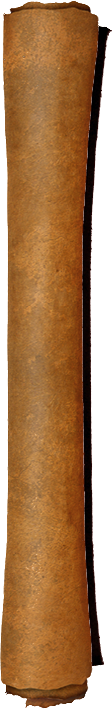
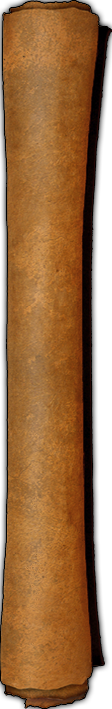
Big scroll done

diff --git a/js/Objects.js b/js/Objects.js
@@ -354,7 +354,7 @@ ClickPoint = InteractableObject.extend({
             x: circle.x,
             y: circle.y,
             r: circle.r
-        }
+        };
         
     },
 
@@ -623,7 +623,7 @@ Item = Class.extend({
         this.dom.draggable({
             start: function () {
                 self.hideAttributes();
-                $(this).css({ zIndex: '2' })
+                $(this).css({ zIndex: '2' });
             },
 
             stop: function (ev, ui) {
@@ -649,7 +649,7 @@ Item = Class.extend({
             this.time = 120;
             this.checkpoints = 1;
             this.lives = 0;
-            this.description = 'This item increases your time for reaction dramatically!!'
+            this.description = 'This item increases your time for reaction dramatically!!';
         };
 
         if (this.type === 'ring') {
@@ -662,17 +662,17 @@ Item = Class.extend({
         };
 
         if (this.type === 'sword') {
-            this.name = "Useless Sword"
+            this.name = "Useless Sword";
             this.moves = 0;
             this.speed = 0;
             this.time = 0;
             this.checkpoints = 0;
             this.lives = 0;
-            this.description = "You'll get nothing from this item. Exept the false sense of security.."
+            this.description = "You'll get nothing from this item. Exept the false sense of security..";
         };
 
         if (this.type === "boots") {
-            this.name = "Boots of Speed"
+            this.name = "Boots of Speed";
             this.moves = 35;
             this.speed = 1;
             this.time = 180;
@@ -682,17 +682,17 @@ Item = Class.extend({
         }
 
         if (this.type === "armor") {
-            this.name = "Shiny Armor"
+            this.name = "Shiny Armor";
             this.moves = 0;
             this.speed = 0;
             this.time = 0;
             this.checkpoints = 0;
             this.lives = 50;
-            this.description = "This armor is almost impenetrable."
+            this.description = "This armor is almost impenetrable.";
         }
 
         if (this.type === "potion") {
-            this.name = "Potion of Agility"
+            this.name = "Potion of Agility";
             this.moves = 120;
             this.speed = 0;
             this.time = 300;
@@ -956,7 +956,11 @@ function Menu() {
 	
     function showEpilogue(){
         $('.menuCell.begin').on('click', function(){
-            $('#epilogue').fadeIn(1000);
+            $('#epilogue').fadeIn(1000, function(){
+            	$('#bigScrollRight').animate({
+            		'left': '30px'
+            	}, 2000, 'easeInOutBack');
+            });
             console.log('hello');
         });
     };
@@ -1191,7 +1195,7 @@ var ServerObject = Class.extend({
             };
 
         this.currentScore = score;
-        this.callMethod(actionName, params)
+        this.callMethod(actionName, params);
 
 
     },
@@ -1207,7 +1211,7 @@ var ServerObject = Class.extend({
                 callback: "serverObject.onGetHighScore",
             };
         console.log('beforeGetHighScore');
-        this.callMethod(actionName,params)
+        this.callMethod(actionName, params);
 
         
     },
@@ -1221,7 +1225,7 @@ var ServerObject = Class.extend({
                 callback: "serverObject.onSaveHighScore",
             };
 
-        this.callMethod(actionName, params)
+        this.callMethod(actionName, params);
 
 
     },
@@ -1250,14 +1254,14 @@ var ServerObject = Class.extend({
             var html = '', j =  (i * 5);
             end = j + 5;
             console.log((data.data.length));
-            console.log(i)
+            console.log(i);
             console.log(j);
-            console.log(end)
+            console.log(end);
             for (j; j < end; j++) {
                 if (data.data.length < j || data.data[j] == undefined)
                     break;
                
-                console.log("hel")
+                console.log("hel");
                 html += '<div class="highscore row">';
                 html += '<div class="highscore cell">' + data.data[j].player + '</div>';
                 html += '<div class="highscore cell">' + data.data[j].score + '</div>';
@@ -1284,6 +1288,6 @@ var ServerObject = Class.extend({
         
     }
 
-})
+});
 
 window.serverObject = new ServerObject();

diff --git a/Css/StyleSheet.css b/Css/StyleSheet.css
@@ -276,13 +276,87 @@ body {
 }
 
 /* ======= MAIN MENU STYLE ========= */
+/* #scroll{
+	float: right;
+	position: relative;
+	width: 150px;
+	height: 224px;
+	margin-right: 5px;
+	margin-top: 35px;
+    display: none;
+}
+#scroll .top{
+	background-image: url(../source/scrollTop.png);
+	width: 150px;
+	height: 29px;
+	position: absolute;
+	top: -5px;
+	z-index: 10;
+}
+#scroll .bottom{
+	background-image: url(../source/scrollBottom.png);
+	width: 110px;
+	height: 164px;
+	position: absolute;
+	top: -120px;
+	z-index: 1;
+	padding-left: 25px;
+	padding-right: 10px;
+	padding-top: 20px;
+	font-family: Morpheus;
+	font-size: 16px;
+	font-weight: bold;
+}
+#bottomScrollWrapper{
+	overflow: hidden;
+	position: relative;
+	width: inherit;
+	height: inherit;
+} */
+		#bigScroll{
+			position: relative;
+			width:1024px;
+			height: 768px;
+			top: 20px;
+			left: 10px;
+		}
+		#bigScrollLeft{
+			background-image: url(../source/menu/bigScrollLeft.png);
+			width:112px;
+			height:709px;
+			z-index: 10;
+			float:left;
+			position: absolute;
+			top: 30px;
+			left: 20px;
+		}
+		#bigScrollRight{
+			background-image: url(../source/menu/bigScrollRight.png);
+			width: 927px;
+			height: 735px;
+			position: absolute;
+			float:left;
+			left: -650px;
+		}
+		
+		#bigScrollRightWrapper{
+			overflow: hidden;
+			position: relative;
+			width: inherit;
+			height: inherit;
+			float:left;
+			z-index: 1;
+			left: 30px;
+		}
+		
         #epilogue{
             position: absolute;
-            background-color: rgba(255, 255, 255,0.4);
+            background-image: url(../source/menu/bigScrollBackground.png);
             width: 1024px;
             height: 768px;
             display: none;
             z-index: 10;
+            overflow: hidden;
         }
         .menuCell.nameInput{
             position: absolute;

diff --git a/index.html b/index.html
@@ -112,11 +112,17 @@
 			<div class="menuCell begin">
 				<div class="menuText">Begin</div>
 			</div>
-			<div id = 'epilogue'>
-				<div class = 'menuCell nameInput'>
+			<div id = "epilogue">
+				<div id = "bigScroll">
+					<div id = "bigScrollLeft"></div>
+					<div id = "bigScrollRightWrapper">
+						<div id ="bigScrollRight"></div>
+					</div>
+				</div>
+				<!-- <div class = 'menuCell nameInput'>
 					<input type='text' id = 'nameInput' value = 'Harry Potter'></input>
 					<button id = 'play'>PLAY!</button>
-				</div>
+				</div> -->
 			</div>
 
 		</div>
